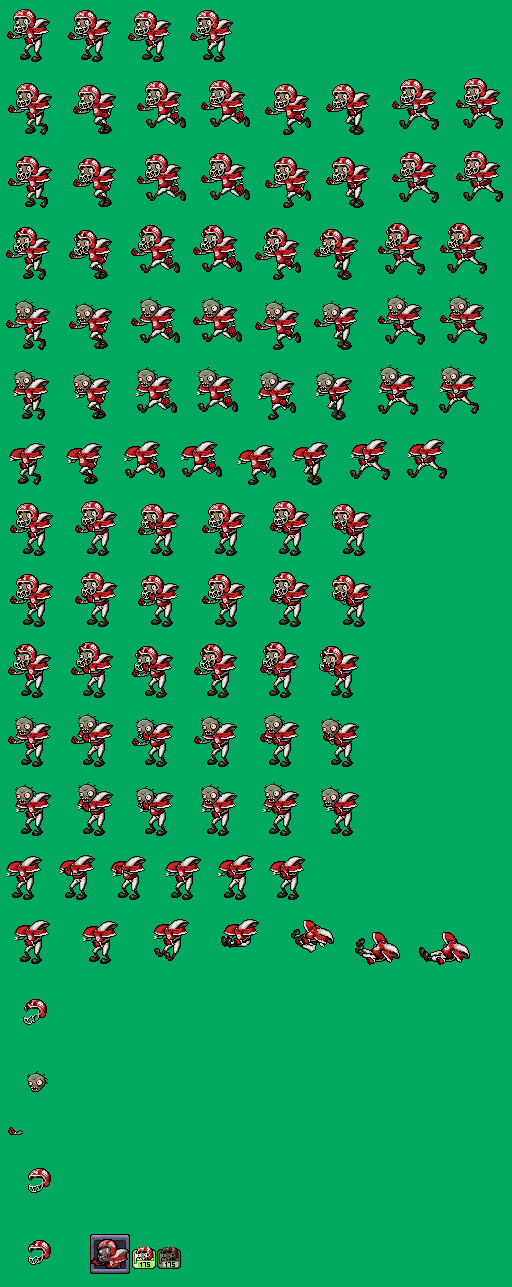
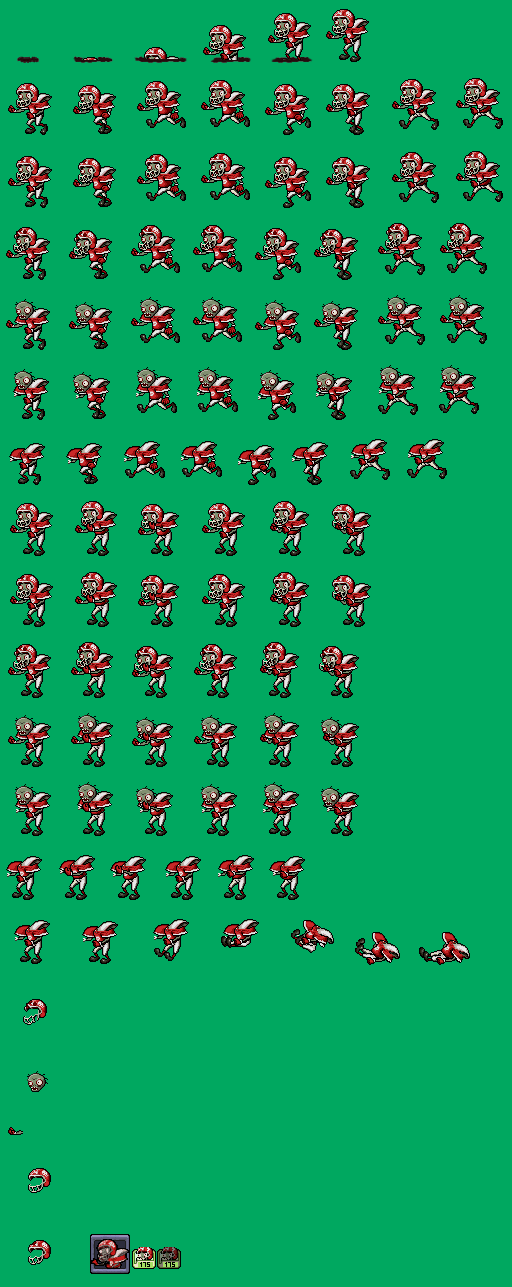
ZombiesSpawn

diff --git a/PlantsVsZombies/gameObjects/zombie.py b/PlantsVsZombies/gameObjects/zombie.py
@@ -16,23 +16,35 @@ class Zombie(Mobile):
    def __init__(self, position):
       super().__init__(position, "zom.png")
         
-      # Animation variables specific to Kirby
-      self.framesPerSecond = 2 
-      self.nFrames = 2
+      # # Animation variables specific to Kirby
+      self.framesPerSecond = 6
+      self.nFrames = 6
       
       self.nFramesList = {
          "moving"   : 8,
-         "standing" : 4
+         "damage1"   : 8,
+         "damage2"   : 8,
+         "damage3"   : 8,
+         "damage4"   : 8,
+         "standing" : 6
       }
       
       self.rowList = {
          "moving"   : 1,
+         "damage1"   : 2,
+         "damage2"   : 3,
+         "damage3"   : 4,
+         "damage4"   : 5,
          "standing" : 0
       }
       
       self.framesPerSecondList = {
          "moving"   : 8,
-         "standing" : 2
+         "damage1"   : 8,
+         "damage2"   : 8,
+         "damage3"   : 8,
+         "damage4"   : 8,
+         "standing" : 8
       }
             
             
@@ -41,56 +53,63 @@ class Zombie(Mobile):
       self.FSManimated = animation.WalkingFSM(self)
       self.LR = movement.AccelerationFSM(self, axis=0)
       self.UD = movement.AccelerationFSM(self, axis=1)
+      self.spawn = True
+      self.dead =  True
       
    def getRect(self):
         return self.image.get_rect()
       
-   def handleEvent(self, event):
-      if event.type == KEYDOWN:
-         if event.key == K_UP:
-            self.UD.decrease()
+   # def handleEvent(self, event):
+   #    if event.type == KEYDOWN:
+   #       if event.key == K_UP:
+   #          self.UD.decrease()
              
-         elif event.key == K_DOWN:
-            self.UD.increase()
+   #       elif event.key == K_DOWN:
+   #          self.UD.increase()
             
-         elif event.key == K_LEFT:
-            self.LR.decrease()
+   #       elif event.key == K_LEFT:
+   #          self.LR.decrease()
             
-         elif event.key == K_RIGHT:
-            self.LR.increase()
+   #       elif event.key == K_RIGHT:
+   #          self.LR.increase()
             
-      elif event.type == KEYUP:
-         if event.key == K_UP:
-            self.UD.stop_decrease()
+   #    elif event.type == KEYUP:
+   #       if event.key == K_UP:
+   #          self.UD.stop_decrease()
              
-         elif event.key == K_DOWN:
-            self.UD.stop_increase()
+   #       elif event.key == K_DOWN:
+   #          self.UD.stop_increase()
              
             
-         elif event.key == K_LEFT:
-            self.LR.stop_decrease()
+   #       elif event.key == K_LEFT:
+   #          self.LR.stop_decrease()
             
-         elif event.key == K_RIGHT:
-            self.LR.stop_increase()
+   #       elif event.key == K_RIGHT:
+   #          self.LR.stop_increase()
    
    def update(self, seconds): 
+      # print(self.frame)
+      if self.frame == 5 and self.spawn==True:
+         self.FSManimated.move()
+         self.LR.decrease()
+         self.spawn=False
       self.LR.update(seconds)
       self.UD.update(seconds)
       self.hitBox = rectAdd(self.position, self.getRect())
       super().update(seconds)
-   
-   def updateMovement(self):
-      pressed = pygame.key.get_pressed()
 
-      if not pressed[pygame.K_UP] and self.UD == "decrease":
-         self.UD.stop_decrease()
-      if not pressed[pygame.K_DOWN] and self.UD == "increase":
-         self.UD.stop_increase()
+   # def updateMovement(self):
+   #    pressed = pygame.key.get_pressed()
+
+   #    if not pressed[pygame.K_UP] and self.UD == "decrease":
+   #       self.UD.stop_decrease()
+   #    if not pressed[pygame.K_DOWN] and self.UD == "increase":
+   #       self.UD.stop_increase()
          
-      if not pressed[pygame.K_LEFT] and self.LR == "decrease":
-         self.LR.stop_decrease()
-      if not pressed[pygame.K_RIGHT] and self.LR == "increase":
-         self.LR.stop_increase()
+   #    if not pressed[pygame.K_LEFT] and self.LR == "decrease":
+   #       self.LR.stop_decrease()
+   #    if not pressed[pygame.K_RIGHT] and self.LR == "increase":
+   #       self.LR.stop_increase()
 
    
   

diff --git a/PlantsVsZombies/FSMs/animation.py b/PlantsVsZombies/FSMs/animation.py
@@ -22,18 +22,36 @@ class WalkingFSM(AnimateFSM):
     """Two-state FSM for walking / stopping in
        a top-down environment."""
        
-    standing = State()
-    moving   = State(initial=True)
-    
-    move = standing.to(moving)
+    standing = State(initial=True)
+    moving   = State()
+    damage1= State()
+    damage2= State()
+    damage3= State()
+    damage4= State()
+    # dead= State()
+
+    move = standing.to(moving)  | damage1.to(moving)  | damage1.to(moving)  | damage1.to(moving)  | damage1.to(moving)  
     stop = moving.to(standing)
+    hurt1 = moving.to(damage1)
+    hurt2 = damage1.to(damage2)
+    hurt3 = damage2.to(damage3)
+    hurt4 = damage3.to(damage4)
+    # die = damage4.to(dead)
         
     
     def updateState(self):
-        if self.hasVelocity() and self != "moving":
+        if self.obj.hp == 8 and self == "moving":
+            self.hurt1()
+        if self.obj.hp == 6 and self == "damage1":
+                self.hurt2()
+        if self.obj.hp == 4 and self == "damage2":
+                self.hurt3()
+        if self.obj.hp == 2 and self == "damage3":
+                self.hurt4()
+        if self.hasVelocity() and self == "standing":
             self.move()
-        elif not self.hasVelocity() and self != "standing":
-            self.stop()
+        # elif not self.hasVelocity() and self != "standing":
+        #     self.stop()
     
     def hasVelocity(self):
         return magnitude(self.obj.velocity) > EPSILON

diff --git a/PlantsVsZombies/utils/spriteManager.py b/PlantsVsZombies/utils/spriteManager.py
@@ -32,7 +32,7 @@ class SpriteManager(object):
       _IMAGE_FOLDER = "images"
       
       # Static information about the sprite sizes of particular image sheets.
-      _SPRITE_SIZES = {"artorias.png": (240,320) , "orb.png": (32,32), "kirby.png": (16,16), "zom.png": (63,68)
+      _SPRITE_SIZES = {"artorias.png": (240,320) , "orb.png": (32,32), "kirby.png": (16,16), "zom.png": (64,68)
       }
       
       # A default sprite size

diff --git a/PlantsVsZombies/gameObjects/engine.py b/PlantsVsZombies/gameObjects/engine.py
@@ -44,7 +44,7 @@ class GameEngine(object):
         self.size = vec(*RESOLUTION)
         self.background = Drawable((0,0), "background.png")
         # self.timer = TimerStatic(2)
-        self.lanes=[(700,25),(700,100),(700,175),(700,250)]
+        self.lanes=[(700,55),(700,130),(700,215),(700,300)]
         self.zom = False
     
     

diff --git a/PlantsVsZombies/FSMs/movement.py b/PlantsVsZombies/FSMs/movement.py
@@ -30,9 +30,9 @@ class MovementFSM(AbstractGameFSM):
 
 class AccelerationFSM(MovementFSM):
     """Axis-based acceleration with gradual stopping."""
-    not_moving = State()
+    not_moving = State(initial=True)
     
-    negative = State(initial=True)
+    negative = State()
     positive = State()
     
     stalemate = State()
